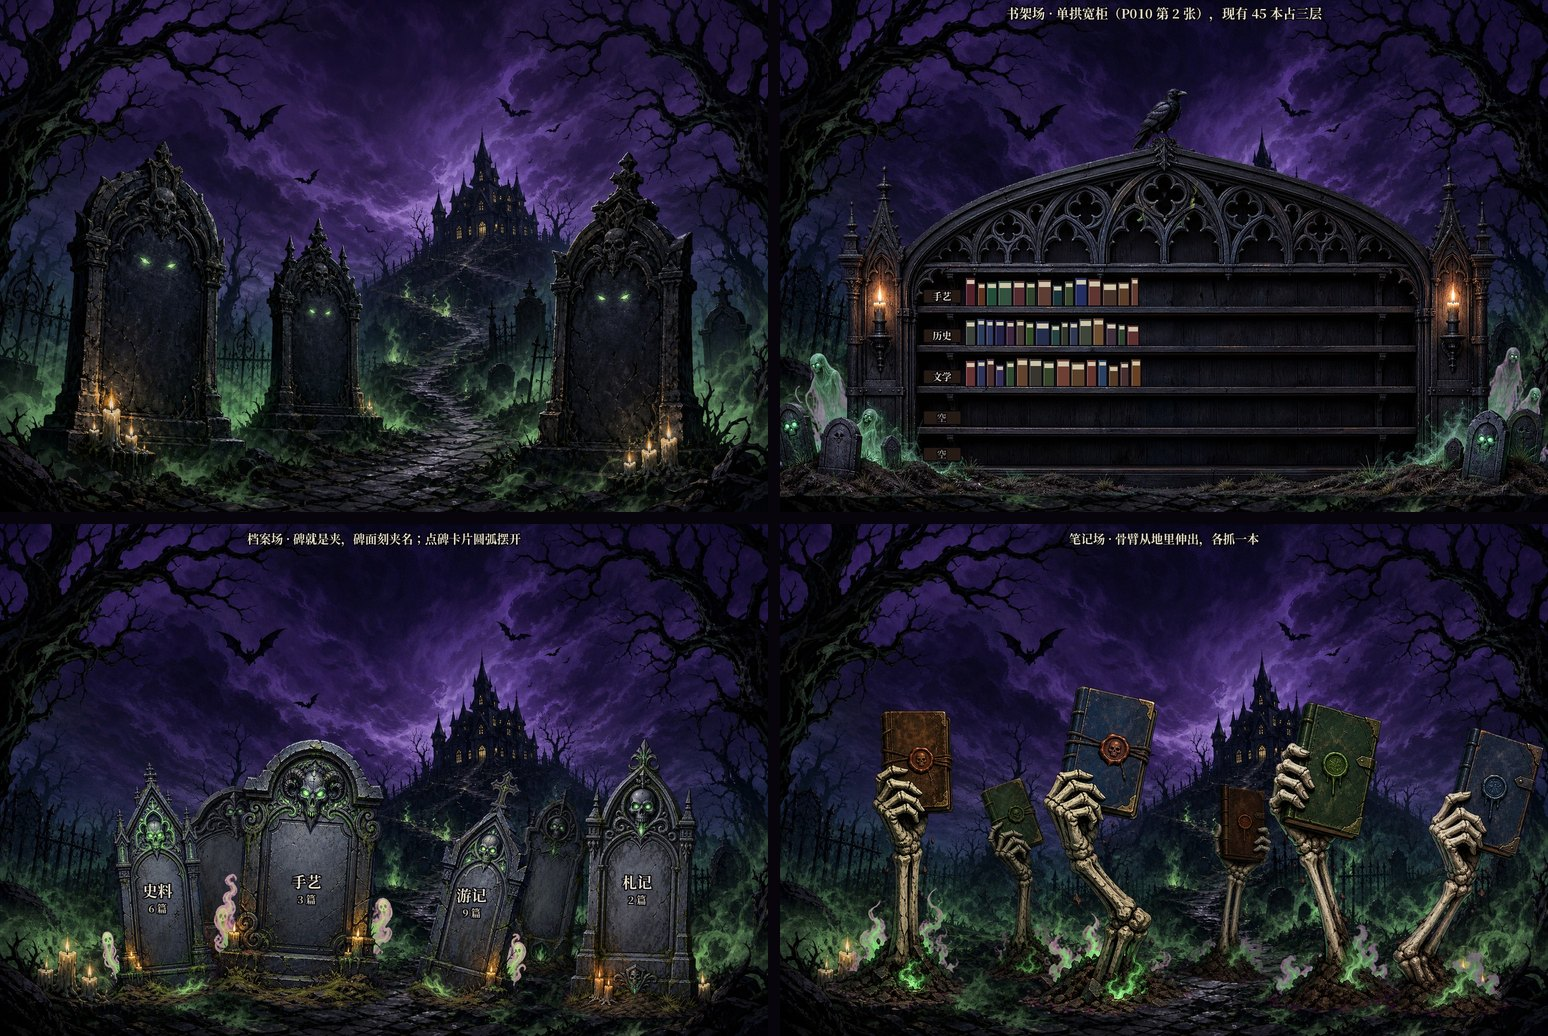
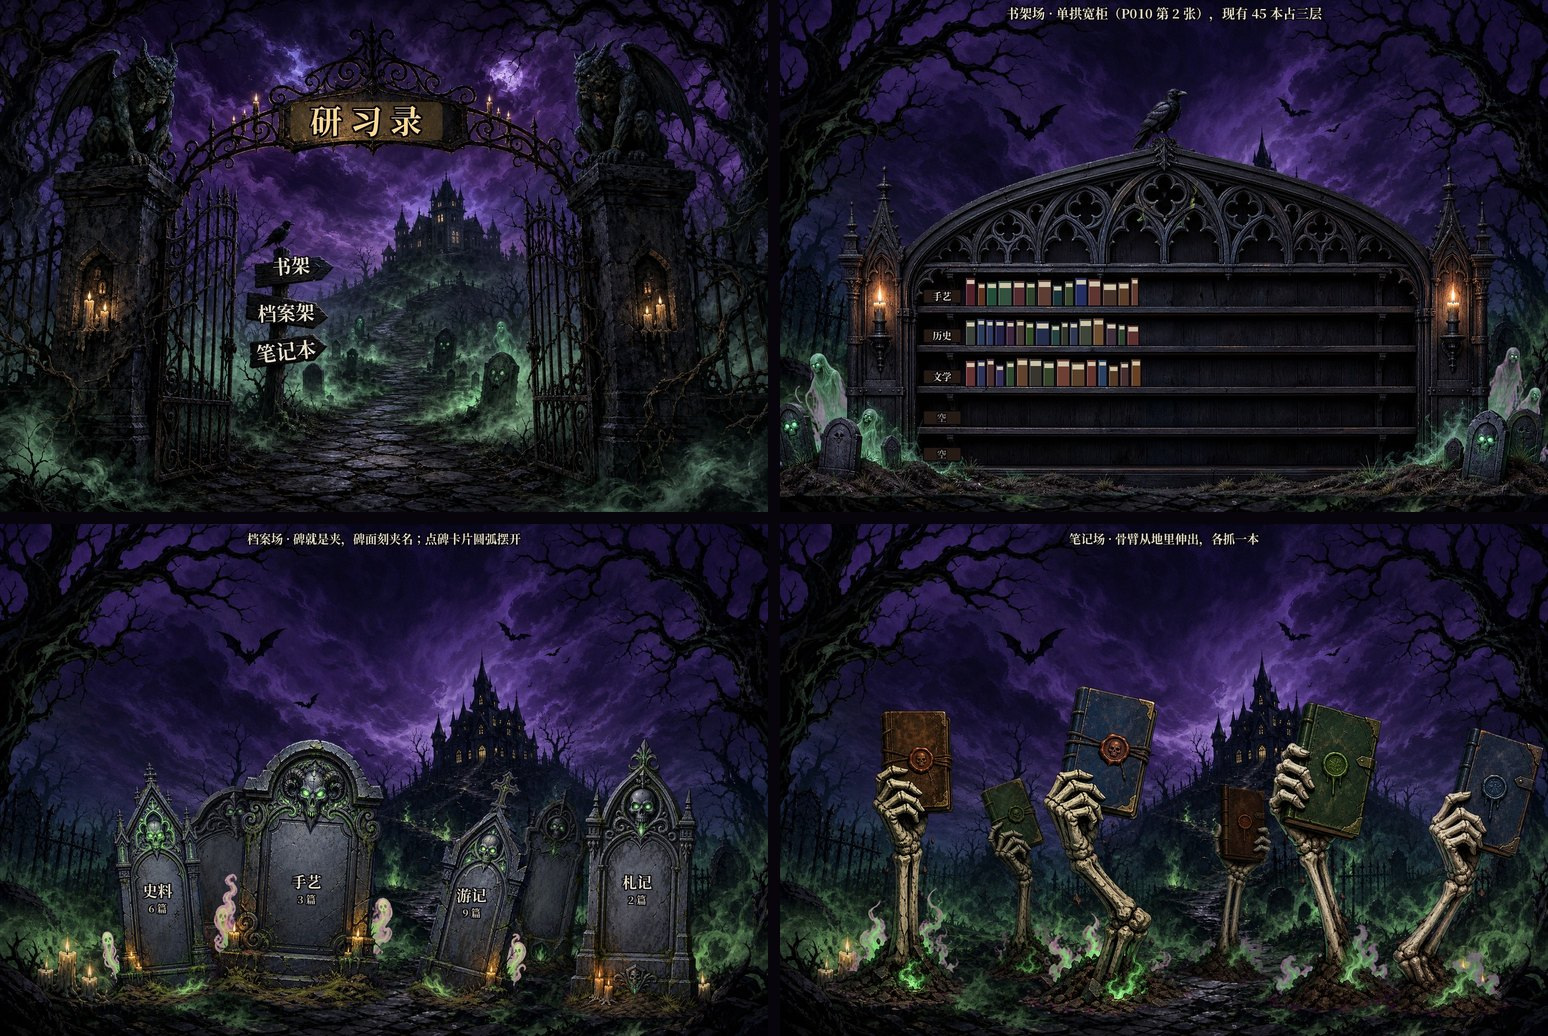
首页大门 P011 两张出图叠字，四屏换首页重拼
- P011：无参考一张、带空场参考一张（0.75 元），登记提示词与结果；牌面与路牌留白，站名与三块路牌字由代码叠上
- 两张对照 docs/ui-trials1-home.jpg；四屏按推荐的第 1 张换首页，盲测墙重跑
- STATUS：等用户二选一

Changed region(s): [[0.0, 0.0, 0.4961, 0.4942]]

diff --git a/STATUS.md b/STATUS.md
@@ -11,7 +11,7 @@ updated: 2026-11-06
 # 状态
 
 ## 现在停在哪
-- 2026-11-06 晚 用户发第四张图（Sleepy Hollow 铁门）：首页不如用这种构图，原首页墓碑太大太多、层次不够 → 首页改为「墓园大门」：前景黑铁门框住画面（石柱、铁花拱托牌刻「研习录」、烛光透牌、门扇半开、藤、小石像鬼），中景门内石板路和一根木路牌（书架 / 档案架 / 笔记本三块牌是入口），远景雾里枯林与山上宅子（与空场同一座）；门柱灯笼是「继续上次」；天仍紫夜、不用图四的红橙天与魔鬼脸。三碑首页作废（P004 留作对照）。规则进圣经第八之三节，计划、分镜（首页分镜：门开、牌亮、路牌显、灯笼亮；点路牌镜头推过门）同步，参考落 REFERENCES。画了布局示意（tools/out/ui/trials1/screens/home-gate-sketch.jpg，本机）。等用户点头出 P011：3:2 两张（一张带空场图当参考保证同一片天与宅子，一张不带），约 0.75 元；手机竖版 2:3 过门后再出。
+- 2026-11-06 晚 用户发第四张图（Sleepy Hollow 铁门）：首页不如用这种构图，原首页墓碑太大太多、层次不够 → 首页改为「墓园大门」：前景黑铁门框住画面（石柱、铁花拱托牌刻「研习录」、烛光透牌、门扇半开、藤、小石像鬼），中景门内石板路和一根木路牌（书架 / 档案架 / 笔记本三块牌是入口），远景雾里枯林与山上宅子（与空场同一座）；门柱灯笼是「继续上次」；天仍紫夜、不用图四的红橙天与魔鬼脸。三碑首页作废（P004 留作对照）。规则进圣经第八之三节，计划、分镜（首页分镜：门开、牌亮、路牌显、灯笼亮；点路牌镜头推过门）同步，参考落 REFERENCES。画了布局示意后用户「按这个出」→ P011 两张出图（0.75 元）：第 1 张无参考，亮、层次清楚、拱上有烛和月亮，门柱上的石像鬼成了魔鬼脸；第 2 张带空场图当参考，和功能场同一座宅子，但更暗更闷、藤多。牌面与路牌留白，站名「研习录」与书架 / 档案架 / 笔记本三块路牌字由代码叠上（脚本在会话草稿区，牌位坐标在提示词登记里可复算）。两张对照 docs/ui-trials1-home.jpg；四屏先按推荐的第 1 张换首页重拼（docs/ui-trials1.jpg），盲测墙重跑四项仍在参考范围内（档案场描边偏密）。等用户二选一（魔鬼脸可用 edit 端点单改一次约 0.38 元）；之后定阶段 0 过门、校色板；手机竖版 2:3 过门后再出。
 - 2026-11-06 晚 用户看三拱位示意：只要一个拱位，做宽、做大 → 书架场主角改定为「单拱宽柜」：一个尖拱横跨柜顶、比例 2:1、宽 ≥ 视口 90%、高 ≥ 80%，一层格一个领域（领域名刻在格层左端小牌），书脊 ≥ 16 像素，一层约五六十本、一柜两百多本，装不下就再占一层、柜身向下长竖着滑；规则改进圣经第八之三节、计划与分镜同步（三拱位作废）。真图两张出好（P010，2:1，0.75 元）：都是一个尖拱、五层长格（要六层给五层）、两端烛台、乌鸦、土堆；第 1 张拱里透花窗看见墓地，格层略矮；第 2 张拱里实窗花格，格层更高，底边两侧带幽灵与小碑、比柜身宽出一截。两张各贴到空场（裁成 16:9）上按数据画了 45 本书与领域牌（docs/ui-trials1-wall.jpg 上下两张）。用户选第 2 张（实窗花格、格层高、两侧幽灵当汇聚来源）；书架场一屏换成宽柜重拼四屏（docs/ui-trials1.jpg），盲测墙重跑。等用户看四屏定阶段 0 过不过门；过门后对图校正色板，进阶段 1 原子。
 - 2026-11-06 晚（已被上一条改掉）用户：魔法师角色一般先不用；书架太窄，怎么容纳更多的书 → 书架改为「书墙」：横向三个尖拱位并排、每个拱位一个领域（碑额刻领域名）、每位四到五层，整面占视口 85% 以上，书脊 ≥ 16 像素，一面约一百二十本，超过向右续拱位横向滑；规则进圣经第八之三节，计划与分镜同步，魔法师记入待定。用现有单拱柜拼了三拱位示意并按数据画了 45 本书看容量（docs/ui-trials1-wall.jpg：不到一半满）。生图脚本加了 2:1 与 1:2 比例。等用户点头出 2:1 的真书墙（P010，2 张约 0.75 元）。
 - 2026-11-06 晚 用户「开始」→ 空场背景两张（P008，edit 端点带首页图，同一片天与宅子、前景清空）与骷髅魔法师两张（P009）出图，共 1.5 元；三个功能场换成空场底重拼（书架占 92% 高、碑前排占一半高并刻夹名、骨臂放大），魔法师站在场边（docs/ui-trials1.jpg，魔法师两张 docs/ui-trials1-mage.jpg）；盲测墙重跑 tools/out/ui/trials1/wall2.jpg。等用户看图：过不过门、魔法师选第 1 张（腰挂灯笼，管书的）还是第 2 张（眼发绿光，身边绕幽灵）、角色定不定为守墓施法者。过门后对图校正色板，进阶段 1。
@@ -102,7 +102,7 @@ updated: 2026-11-06
 - 宝石规则是否改成按"能不能回忆"定（沿自 BRIEF）。
 
 ## 日志
-- 2026-11-06 晚 首页改墓园大门（用户图四）：圣经、计划、分镜、REFERENCES 同步，布局示意；等点头出 P011。
+- 2026-11-06 晚 首页改墓园大门（用户图四）：圣经、计划、分镜、REFERENCES 同步，布局示意；P011 两张出图叠字（0.75 元），四屏换首页重拼，等二选一。
 - 2026-11-06 晚 三拱位作废改单拱宽柜；P010 两张（0.75 元）贴空场画书；用户选第 2 张，四屏重拼（书架场换宽柜、档案场与笔记场去掉魔法师，拼法存成脚本）、盲测墙重跑；提交 481c66a、81f4cda。
 - 2026-11-06 晚 书架改书墙（三拱位、按领域）；三拱位示意图；魔法师搁置；脚本加 2:1。
 - 2026-11-06 晚 空场背景与骷髅魔法师出图（1.5 元），三屏换底重拼，P008 到 P009。

diff --git a/docs/ui-prompts.md b/docs/ui-prompts.md
@@ -14,3 +14,4 @@
 | P008 | 2026-11-06 | 空场背景（功能场底） | 中档，3:2，2 张，edit 端点带首页图 P004-2 当参考 | The same graveyard scene as the reference image: same violet storm sky, same black twisted trees framing the top, same gothic manor on the hilltop, same winding path and green fog, but with the three foreground tombstones removed: an empty clearing of mossy ground and green fog in the foreground and middle ground, nothing standing there, a few candles at the far edges only. 3:2 landscape, full-bleed scene. | 0.752 元 | 两张都和首页同一片天、同一座宅子、同一条路，前景清空；第 1 张前景更干净，作为三个功能场的底 |
 | P009 | 2026-11-06 | 骷髅魔法师（守墓施法者，角色待用户定） | 中档，2:3，2 张，洋红底 | A skeleton necromancer librarian standing, full body, front three-quarter view: tattered dark-indigo robe with a hood, a gnarled wooden staff topped with a green glowing crystal raised in one bony hand, an old leather book under the other arm, bone-white skull with small green glowing eyes, calm and scholarly, not menacing. Feet on the ground. Isolated on a solid flat magenta #FF00FF background, nothing touching the edges. | 0.752 元 | 两张都是兜帽靛袍、绿晶杖、夹着书；第 1 张腰挂小灯笼更像管书的，第 2 张眼发绿光、身边绕着幽灵更像施法的；抠底干净 |
 | P010 | 2026-11-06 | 乙 单拱宽柜（书架场主角，代替 P005 的窄柜与三拱位设想） | 中档，2:1，2 张，洋红底 | A single enormous black gothic bookcase, much wider than it is tall, with one wide pointed gothic arch spanning its whole top and carved tracery inside the arch, dark aged wood with iron fittings, six long empty shelves running the full width, a lit black candle on a sconce at each end, one raven perched at the peak, a mound of graveyard earth and grass along the whole base as if it rose from the ground. Front view, straight on, symmetric. Isolated on a solid flat magenta #FF00FF background, nothing touching the edges. | 0.752 元 | 两张都是一个尖拱横跨、五层长格（要了六层给了五层）、两端烛台、顶上乌鸦、土堆底座，抠底干净；第 1 张拱里是透花窗、窗后画着墓地与幽灵，第 2 张拱里是实的黑窗花格、底边两侧多了幽灵与小碑（比柜身宽出一截）。格层空腔约 75 到 85 像素高（原图 2000 宽）。用户选第 2 张 |
+| P011 | 2026-11-06 | 甲 首页「墓园大门」（代替 P004 的三碑首页） | 中档，3:2，2 张：第 1 张无参考图，第 2 张 edit 端点带空场图 P008-1 当参考（前缀 The same graveyard as the reference image… now seen from outside its entrance.） | Low-angle view through a tall black wrought-iron graveyard gate in the foreground that frames the whole picture: two weathered stone gate pillars with a small stone gargoyle on top of each, an ornate iron arch across the top holding a rusty metal sign plate with a blank face, lit from behind by warm amber candlelight, both iron gate leaves swung open inward, dead vines twisting around the bars. Through the gate a cracked flagstone path leads into the graveyard; a wooden signpost with three blank arrow boards stands beside the path just inside the gate; layers of low green fog; a few small tombstones far along the path; bare black trees on both sides; a dark gothic manor with lit windows on the hilltop in the far distance. Strong depth: dark sharp foreground gate, misty middle ground, pale far background. 3:2 landscape, full-bleed scene. | 0.752 元 | 两张都齐：门框住画面、拱上空牌、门内三块空路牌、路、远处宅子，牌面与路牌留白给代码叠字。第 1 张亮、层次清楚、有月亮和拱上烛，门柱上的石像鬼成了魔鬼脸（圣经不要）；第 2 张和空场同一座宅子、更暗更闷、藤多、石像鬼是石头的 |
